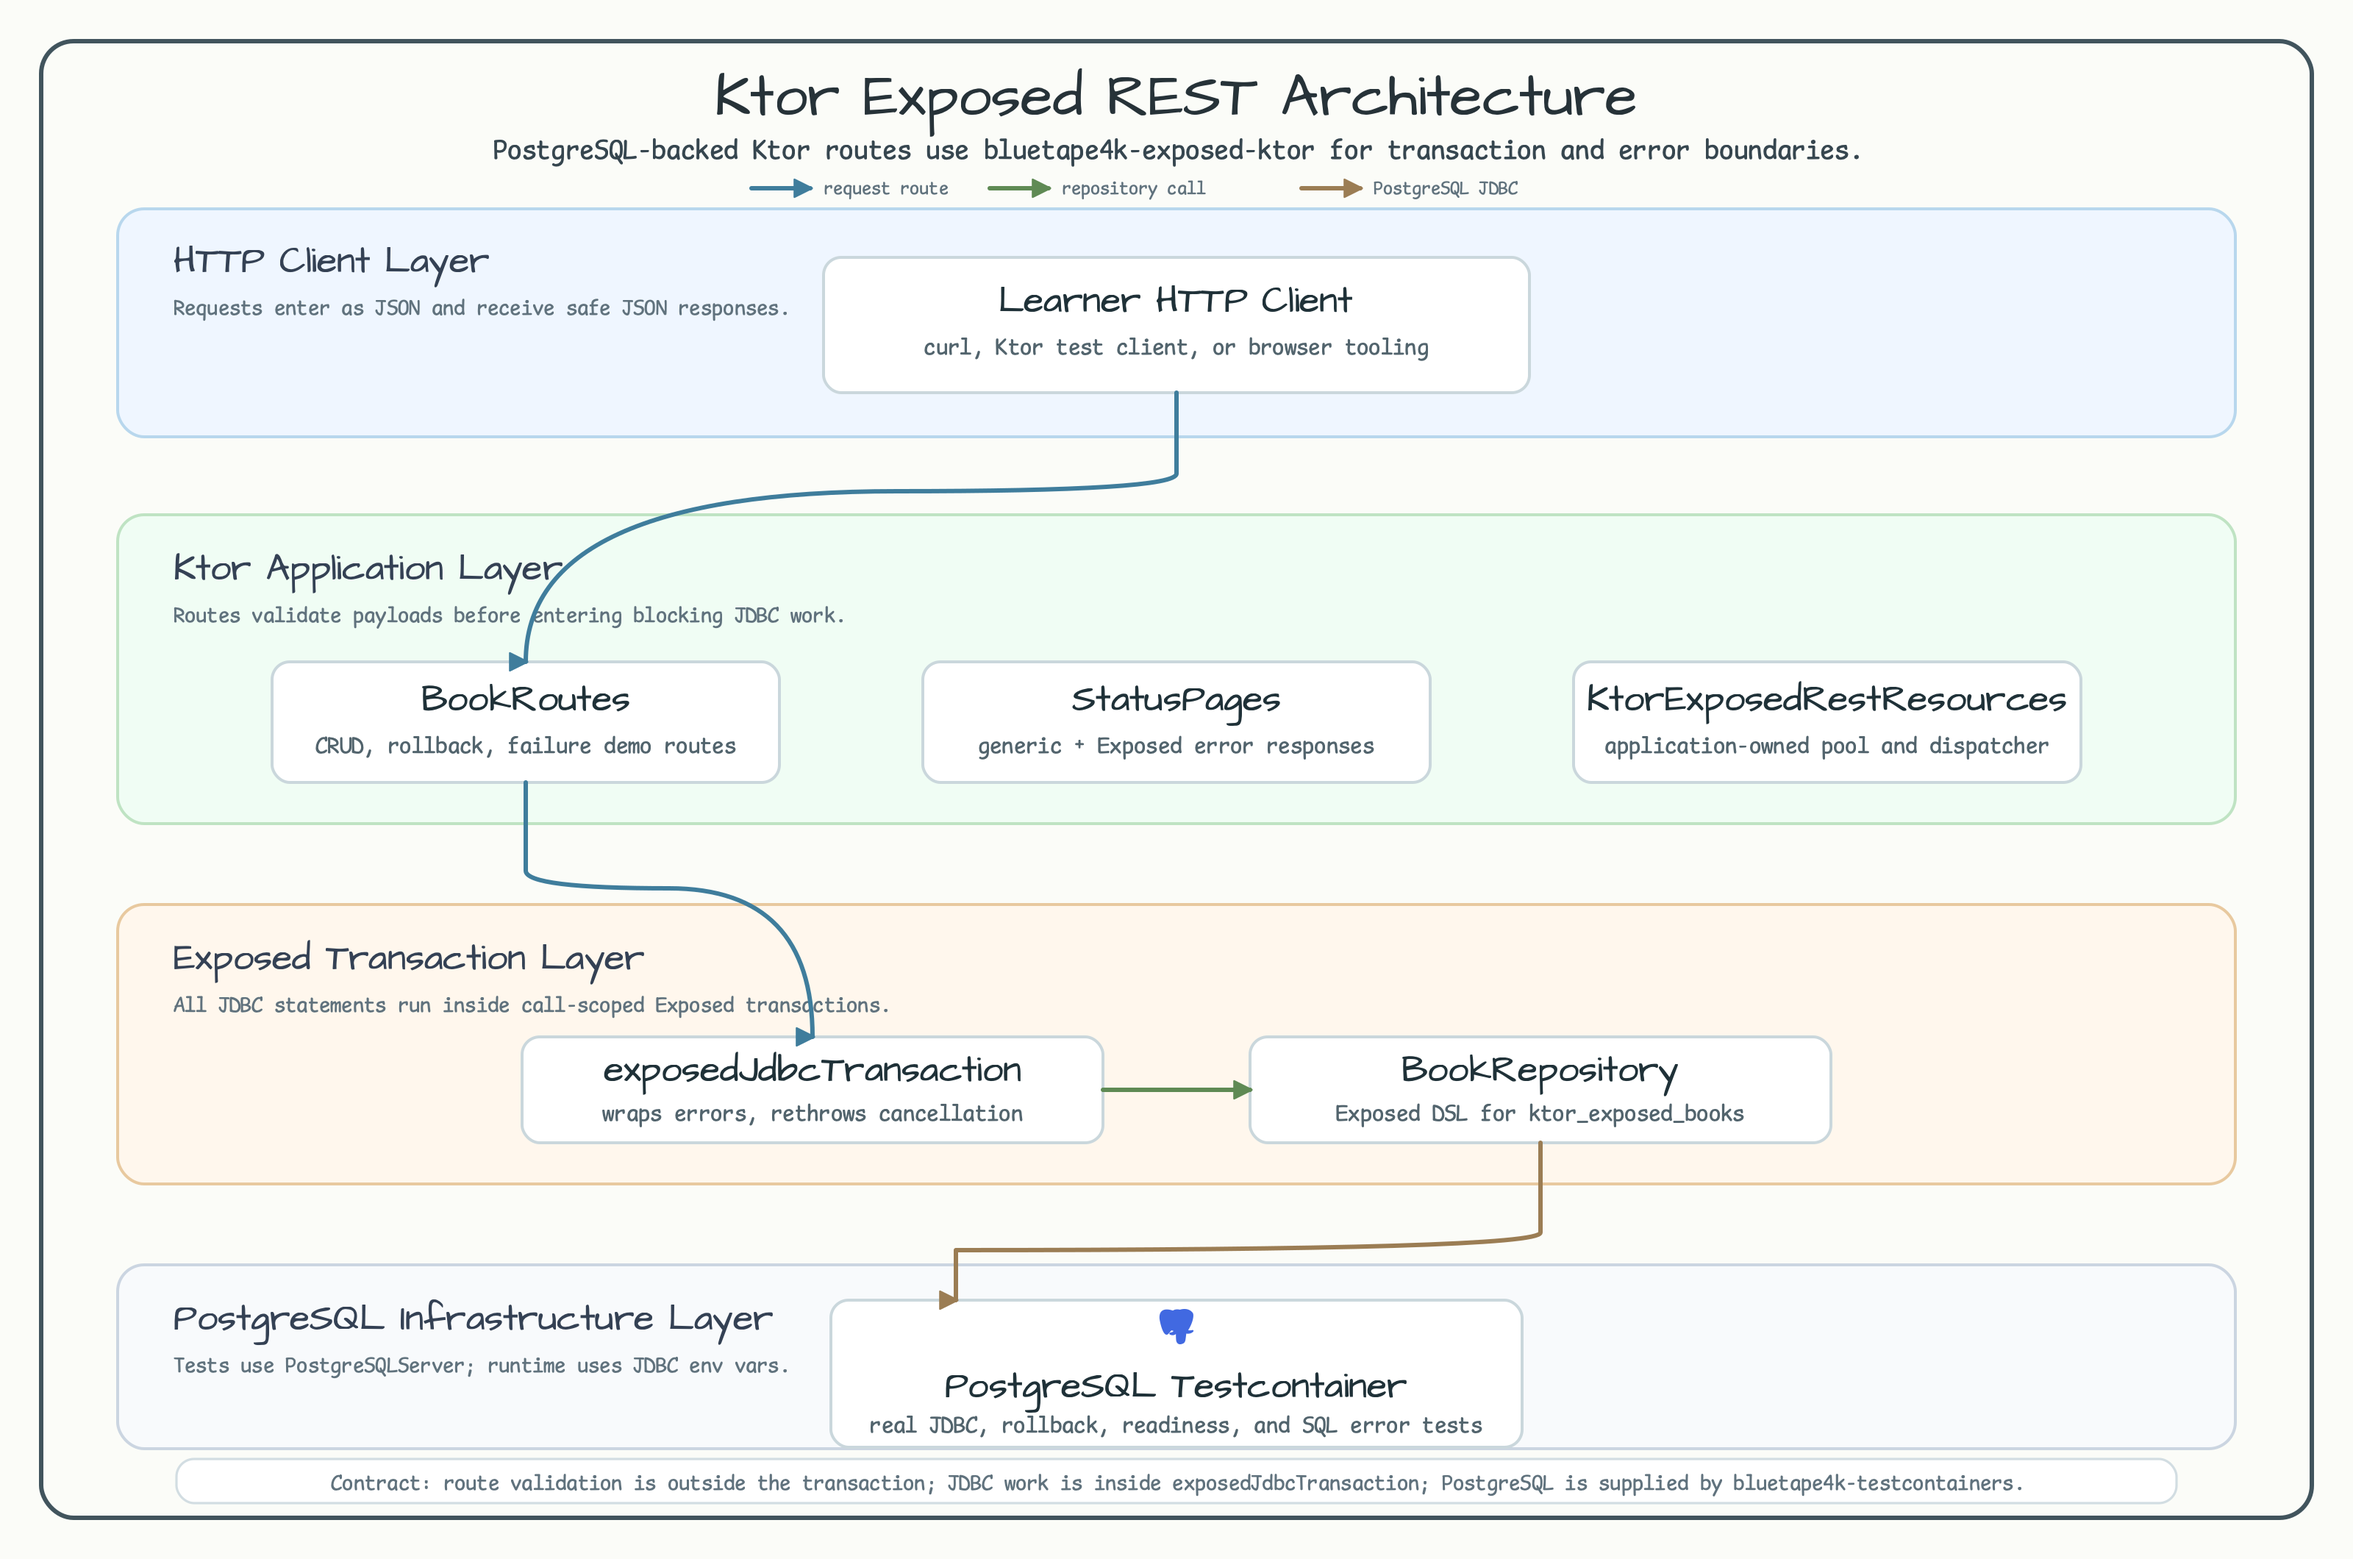
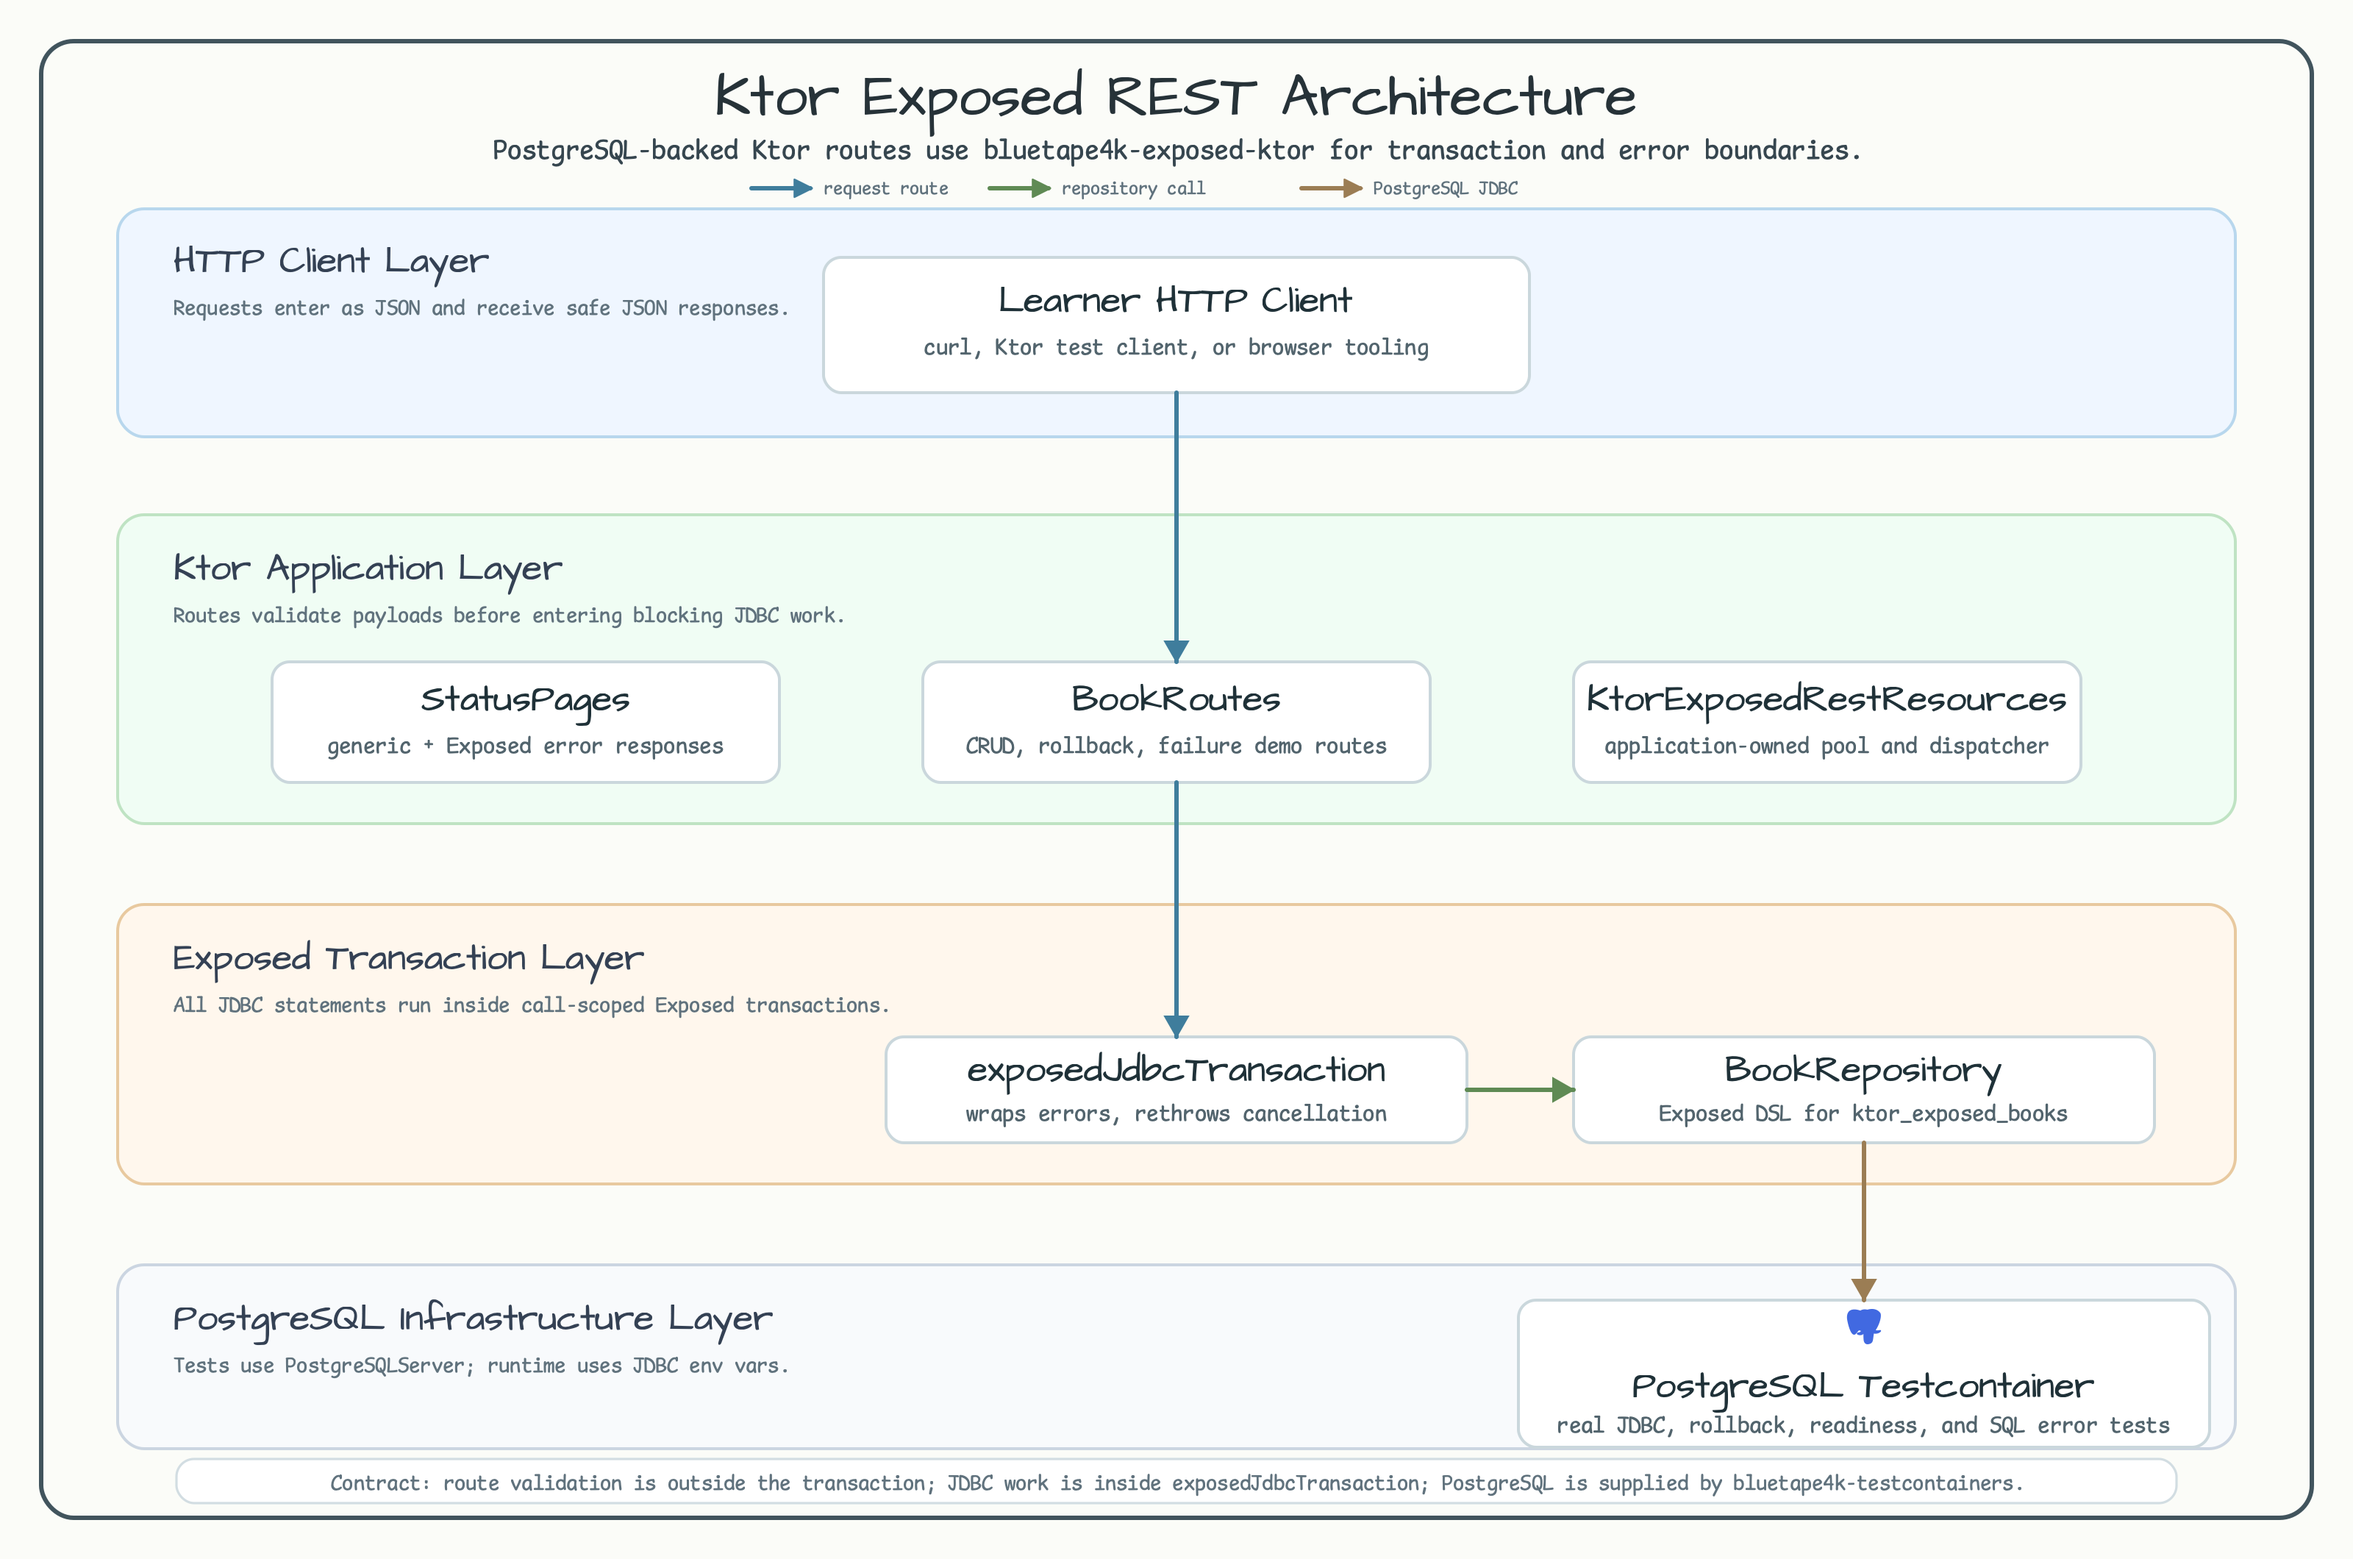
fix: simplify Ktor Exposed architecture connectors
Constraint: Diagram gate requires rendered PNG connector quality, not just SVG validator success.
Rejected: Marker-ended curved connector routes | CairoSVG rendered arrowhead direction and long spline-like paths differently from the intended architecture flow.
Confidence: high
Scope-risk: narrow
Directive: Treat user-reported diagram defects as gate failures until the rendered PNG, direct connector invariants, and repo-local diagram QA all pass after the final coordinate change.
Tested: xmllint --noout docs/images/readme-diagrams/ktor-exposed-rest-readme-architecture-01.svg docs/images/readme-diagrams/ktor-exposed-rest-readme-sequence-01.svg; ./scripts/smoke-validate.sh diagram-qa; git diff --check; full-size PNG visual inspection of docs/images/readme-diagrams/ktor-exposed-rest-readme-architecture-01.png
Not-tested: No Kotlin tests rerun because only diagram and review evidence files changed.

diff --git a/docs/review/2026-07-01-issue-319-implementation-review.md b/docs/review/2026-07-01-issue-319-implementation-review.md
@@ -96,12 +96,16 @@ Evidence:
   docs/images/readme-diagrams/ktor-exposed-rest-readme-architecture-01.svg
   docs/images/readme-diagrams/ktor-exposed-rest-readme-sequence-01.svg`: PASS,
   `targets=2`, `weak_reference_rows=0`.
-- Architecture marker audit: PASS, `markers_checked=7`,
-  `marker_failures=0`.
+- Architecture marker audit: PASS, `markers_checked=3`,
+  `marker_failures=0`; flow arrowheads use direct polygon heads instead of
+  `marker-end`.
 - Architecture connector audit: PASS, `connectors=7`, `cards=7`,
   `intrusions=0`, `crossings=0`.
-- Architecture mixed-corner audit: PASS, `paths=4`, `q_bends=4`,
+- Architecture mixed-corner audit: PASS, `paths=4`, `q_bends=0`,
   `failures=0`.
+- Architecture direct-head invariant: PASS, `flow_connectors=4`,
+  `direct_arrowheads=4`, `flow_marker_end=0`, `flow_q_segments=0`,
+  `flow_diagonal_candidates=0`.
 - Sequence marker audit: PASS, `markers_checked=8`, `marker_failures=0`.
 - Sequence fallback audit: PASS, `labels=8`, `numbers=8`,
   `monotonic=true`, `alt_fill_failures=0`.

diff --git a/docs/lessons/2026-07-01-issue-319-ktor-exposed-rest.md b/docs/lessons/2026-07-01-issue-319-ktor-exposed-rest.md
@@ -16,6 +16,11 @@
   diagram-qa` can be weak because it discovers changed committed paths. Run
   `node scripts/validate-readme-diagram-qa.mjs <new-svg...>` explicitly and
   inspect the rendered PNGs at full size before claiming checklist completion.
+- Architecture connector lesson: If a connector path ends with a curve or
+  crowded bend, CairoSVG can render marker direction differently than the raw
+  SVG suggests. For reader-facing architecture flow arrows, prefer simple
+  perpendicular routes and direct polygon arrowheads after the final coordinate
+  change, then inspect the PNG before pushing.
 - Future agents: Keep sequence diagrams on the current best-practices palette:
   numbered labels above lines, matching arrowhead and line colors, transparent
   `alt` bodies, centered card text, and SVG metadata that lets repo validators
